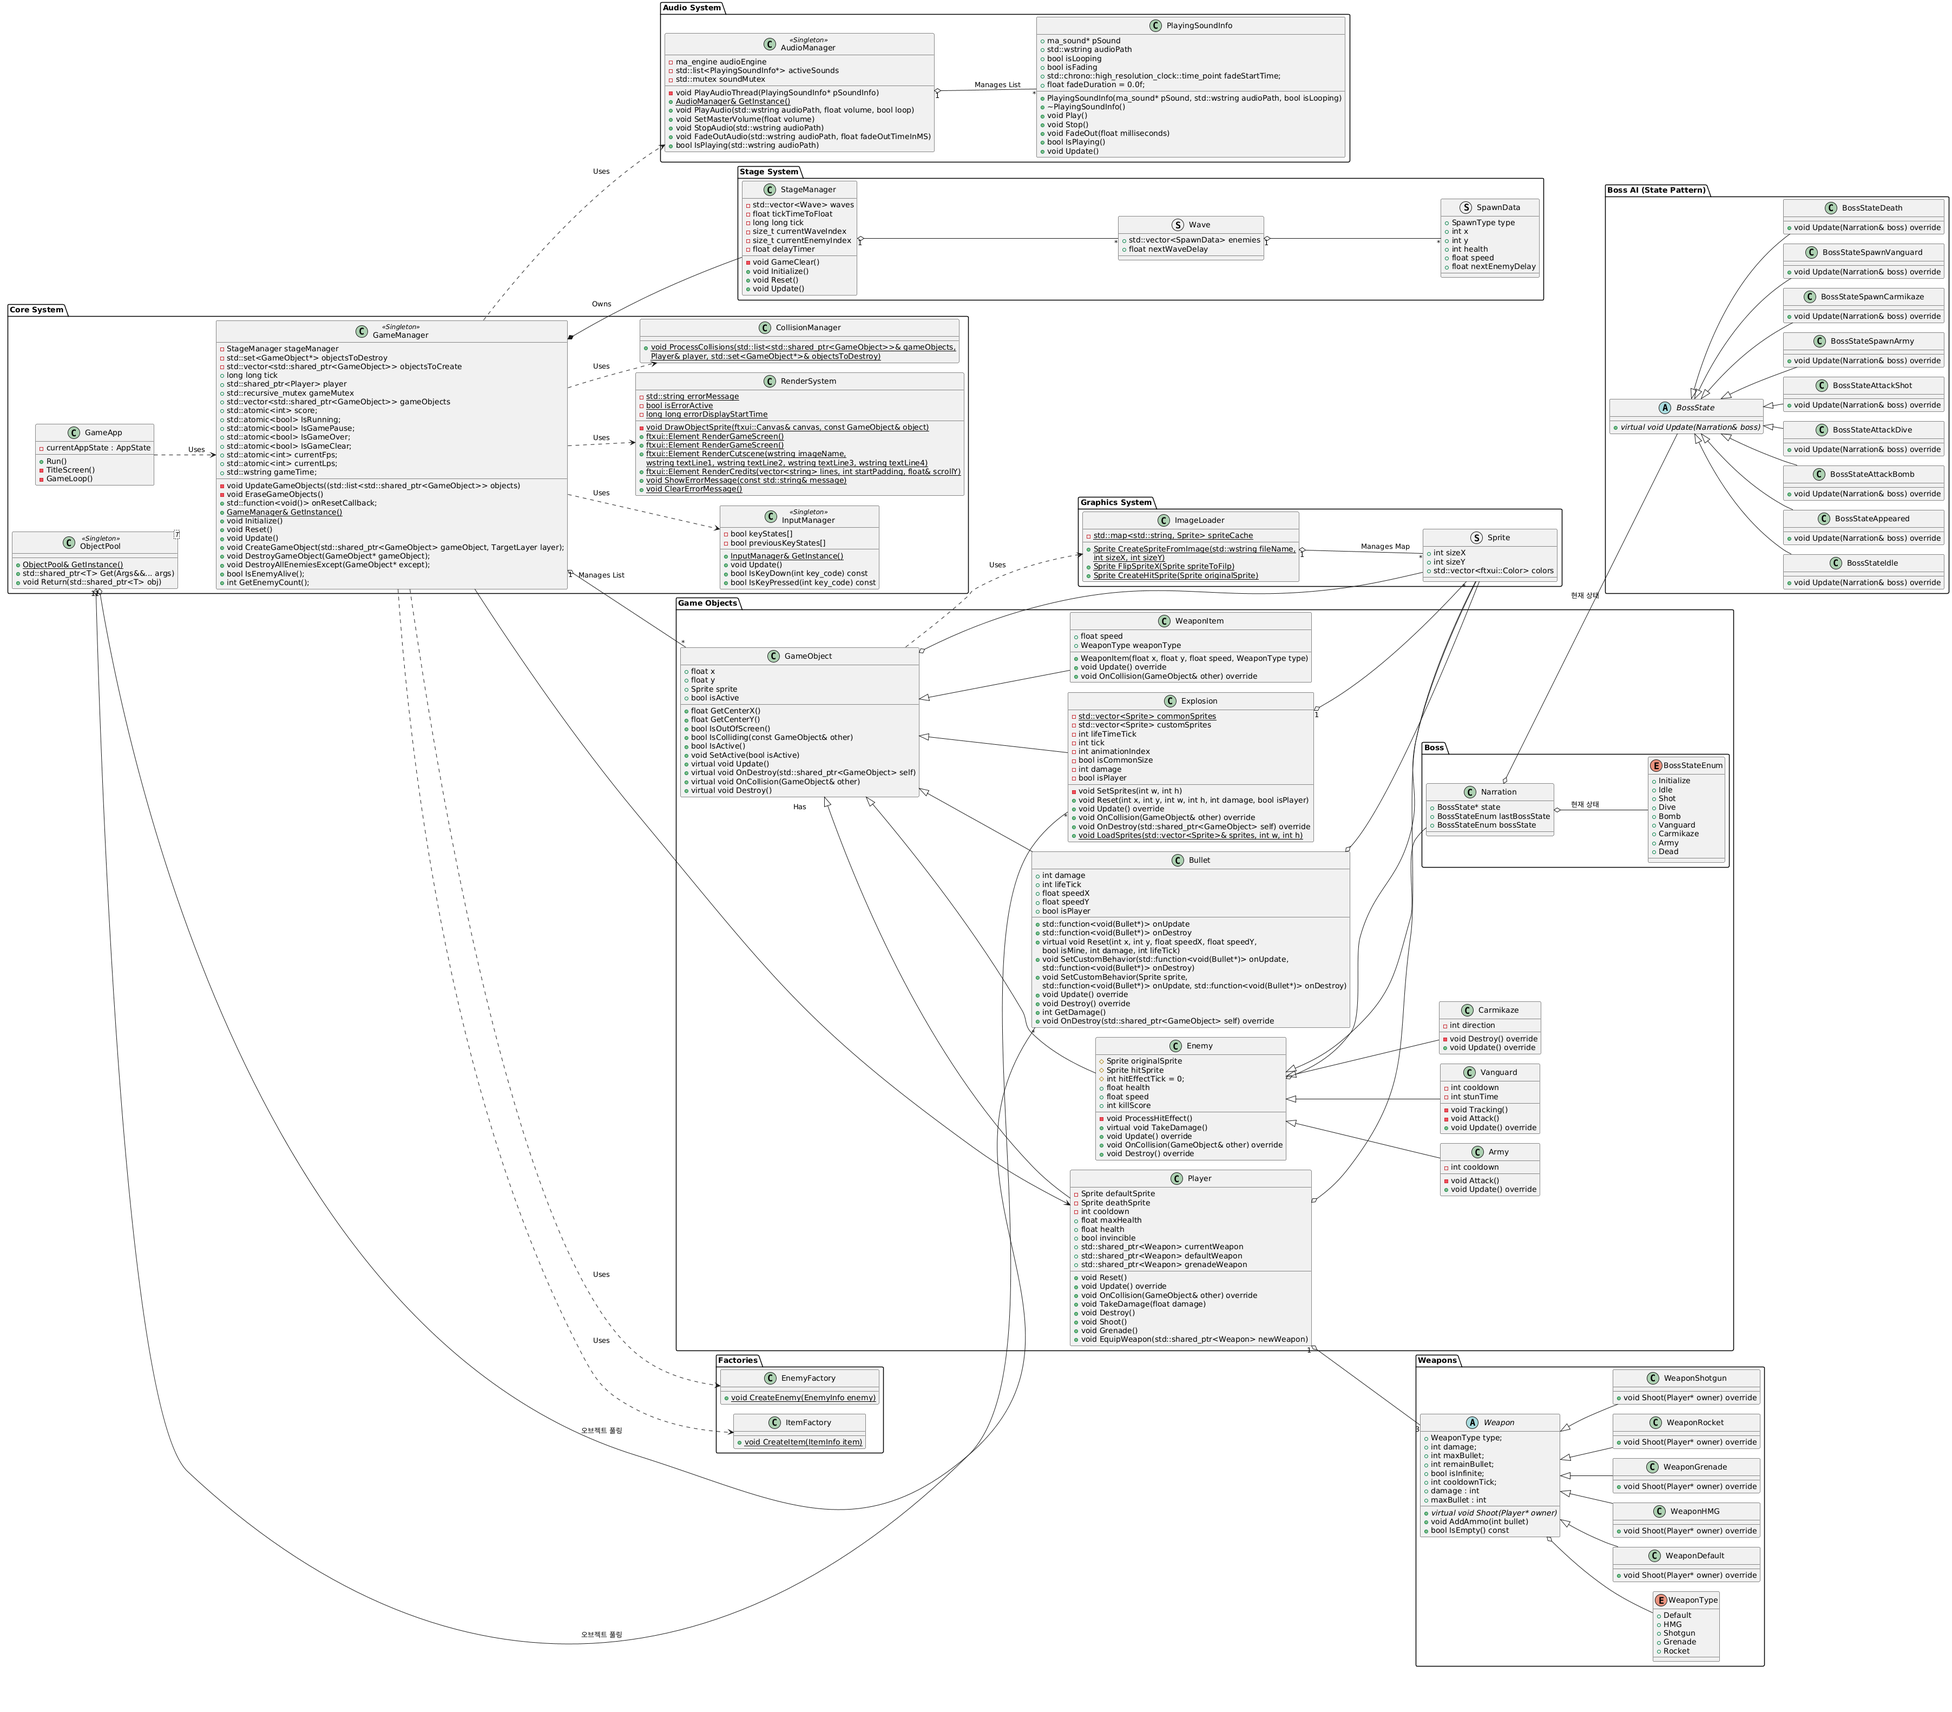
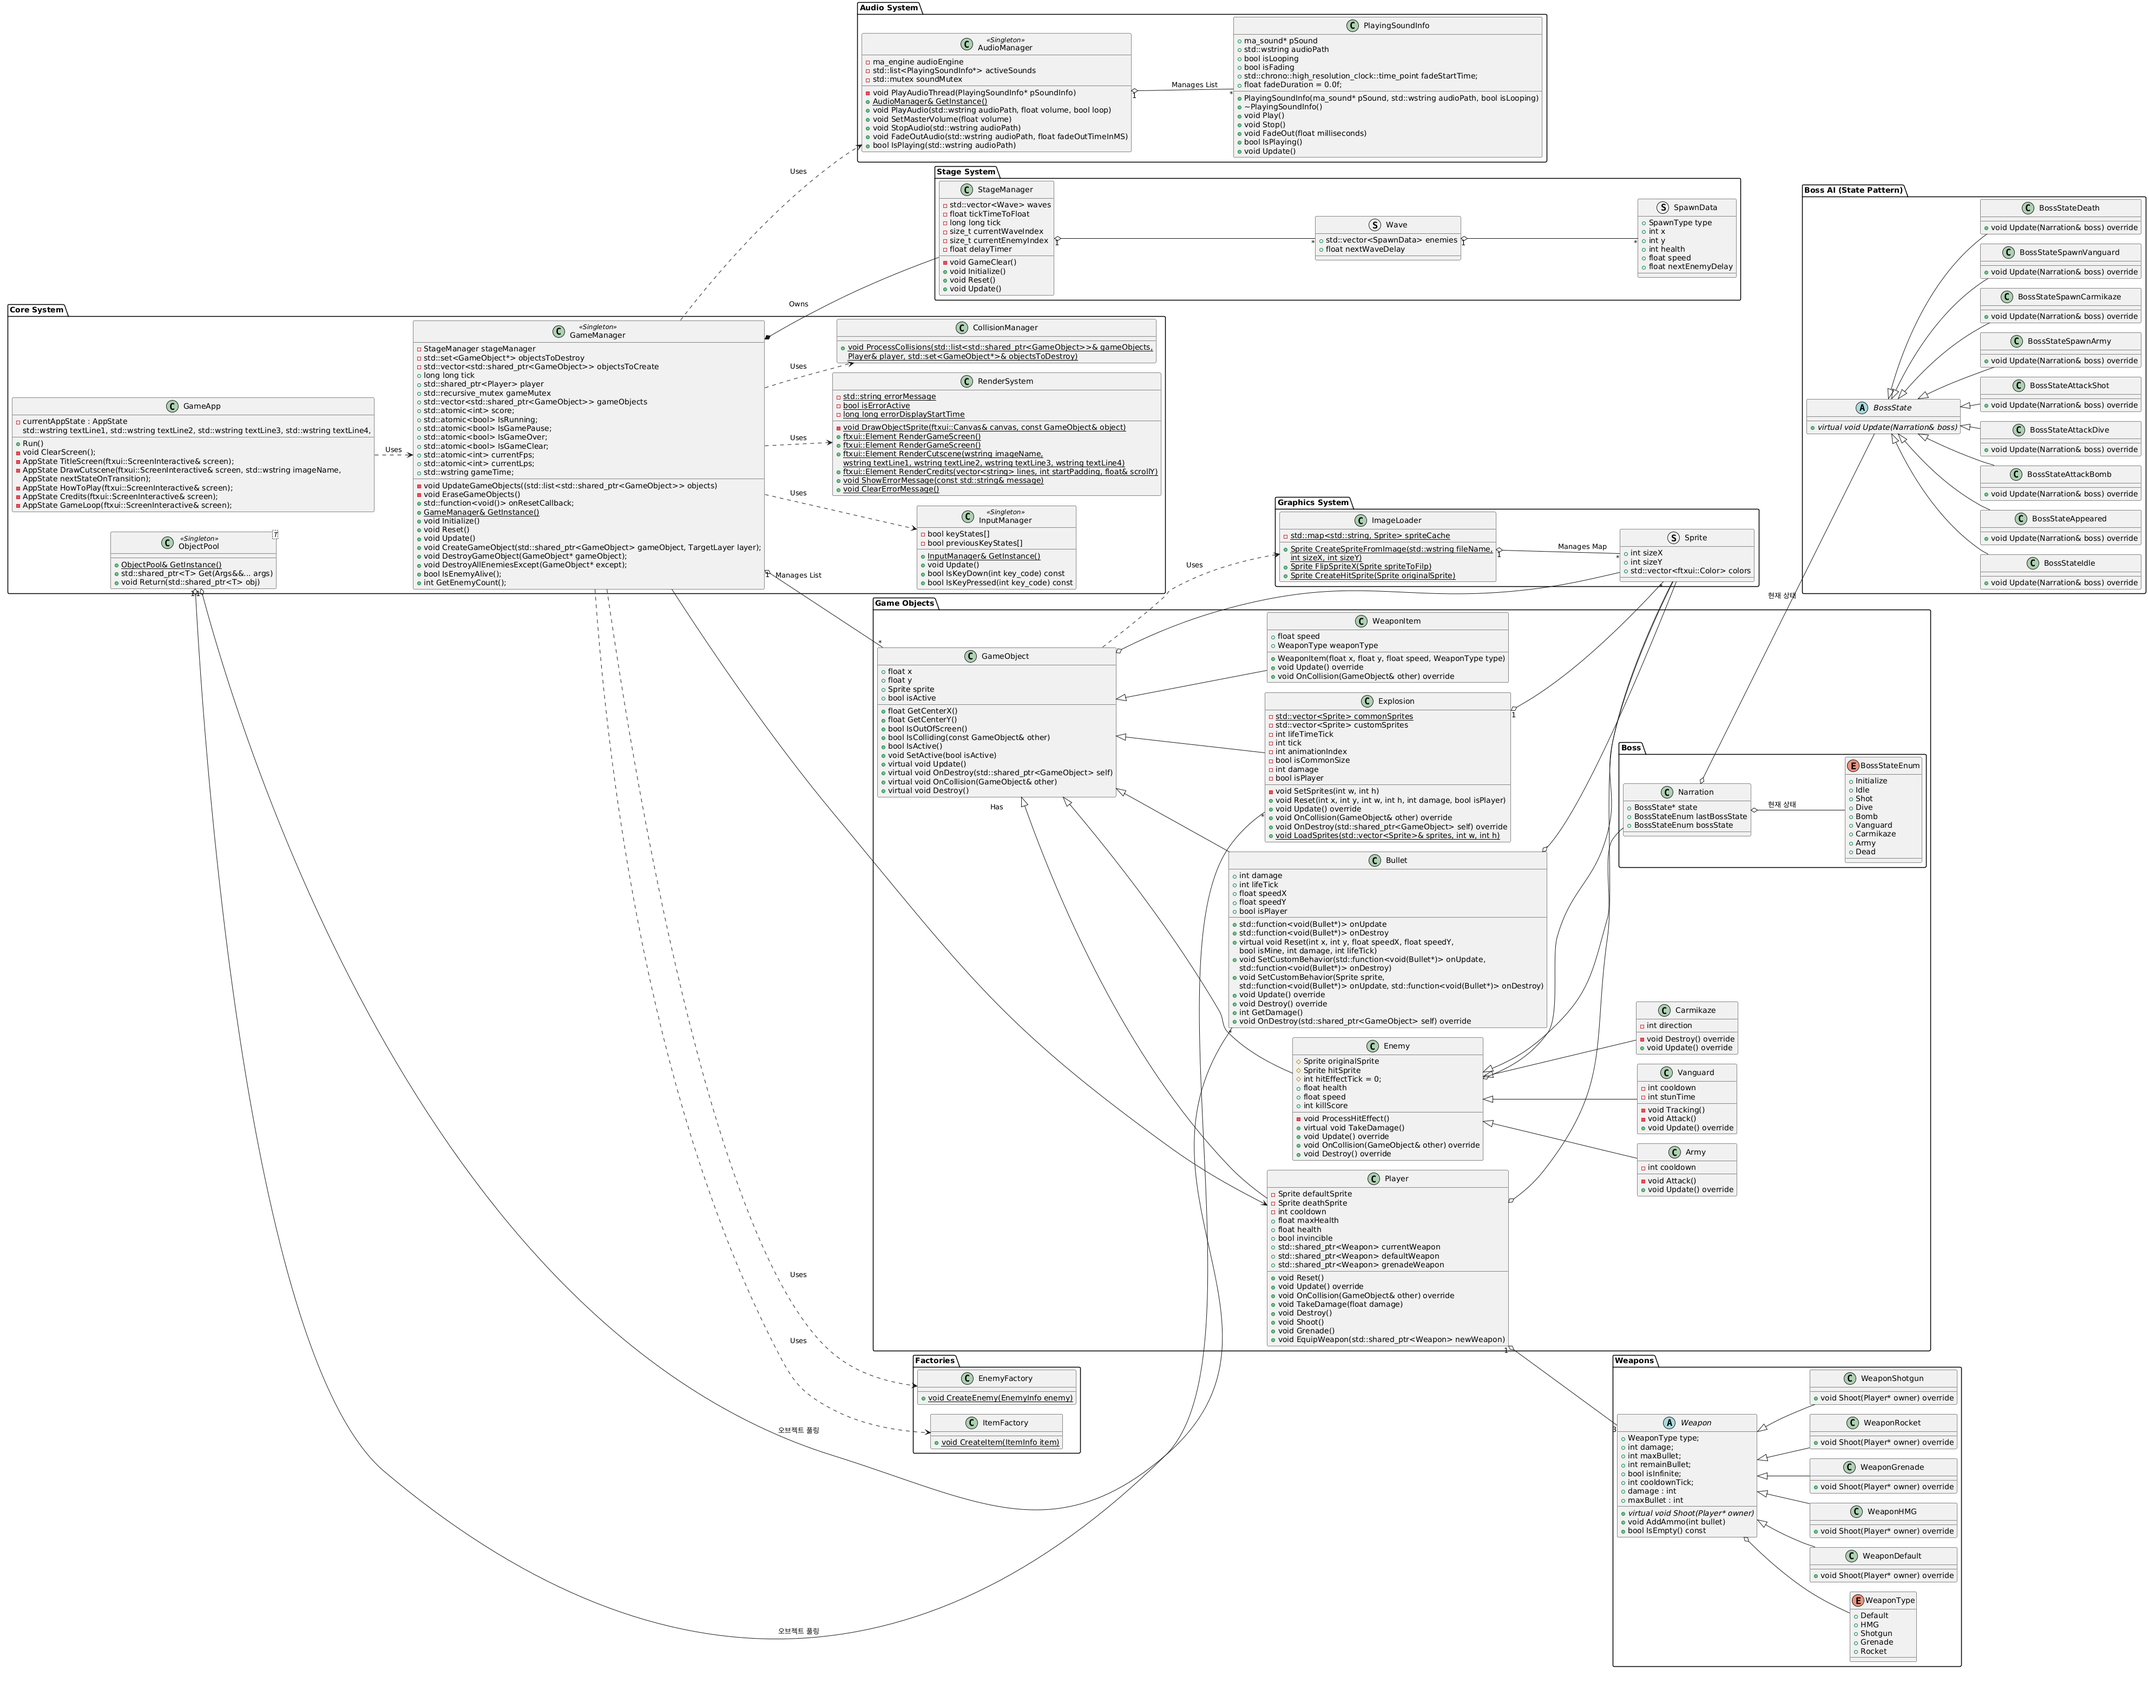
Update GameApp.cpp

diff --git a/Gyeongseong97/GameApp.cpp b/Gyeongseong97/GameApp.cpp
@@ -81,7 +81,7 @@ void GameApp::Run()
 				currentAppState = DrawCutscene(screen,
 					L"intro_kdh.png",
 					L"",
-					L"김두한은 조선의 주먹 황제이자 백색 테러주의자다.",
+					L"김두한은 조선의 주먹 황제이자 백색 테러주의자이다.",
 					L"1972억 공산당 빨갱이들을 모조리 시체로 결☆ 정 시킬 것이다!",
 					L"",
                     INTRO_CUTSCENE // Next state if user exits this cutscene
